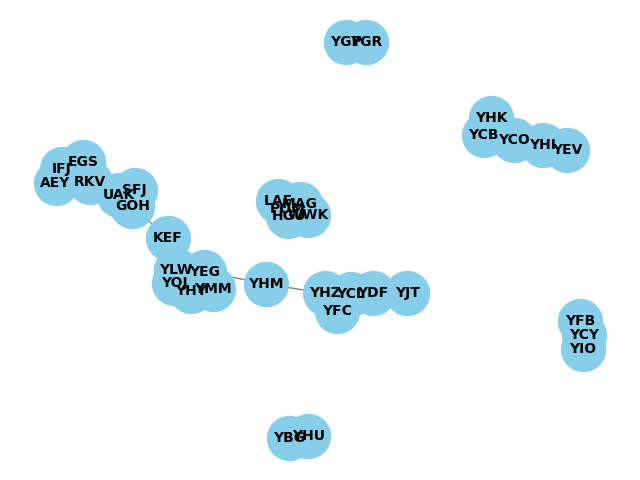
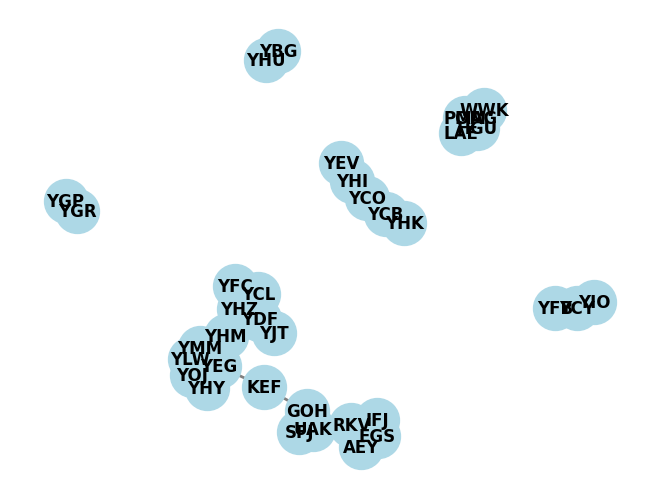
fix: commenting image function

diff --git a/src/helpers/GenerateGraph.py b/src/helpers/GenerateGraph.py
@@ -1,5 +1,5 @@
-from pyvis.network import Network
 import networkx as nx
+import matplotlib.pyplot as plt
 
 def generate_graph_image(graph):
     """
@@ -9,10 +9,18 @@ def generate_graph_image(graph):
         "C": ["A", "B", "D"],
     }
     """
-    nx_graph = nx.cycle_graph(len(graph))
-    nx_graph = nx.relabel_nodes(nx_graph, graph)
 
-    nt = Network("500px", "500px")
-    nt.from_nx(nx_graph)
-    nt.show("graph.html")
+    G = nx.Graph()
+    for node, neighbors in graph.items():
+        for neighbor in neighbors:
+            G.add_edge(node, neighbor)
+
+
+    pos = nx.spring_layout(G)
+    nx.draw(G, pos, with_labels=True, font_weight='bold', node_size=1000, node_color='lightblue', edge_color='gray', width=2, arrows=True)
+
+    plt.savefig('graph.png', bbox_inches='tight')
+    plt.show()
+    
+
     

diff --git a/src/routes/Route.py b/src/routes/Route.py
@@ -11,7 +11,7 @@ async def minimum_path(src: str, dest: str):
         service = MinimumPath()
         all_paths = service.obtain_all_paths(src, dest)
         paths_with_names = service.obtain_paths_with_names(all_paths)
-        generate_graph_image(service.grafo_sin_distancia)
+        #generate_graph_image(service.grafo_sin_distancia)
 
         return JSONResponse(paths_with_names, 202)
     except Exception as e:
